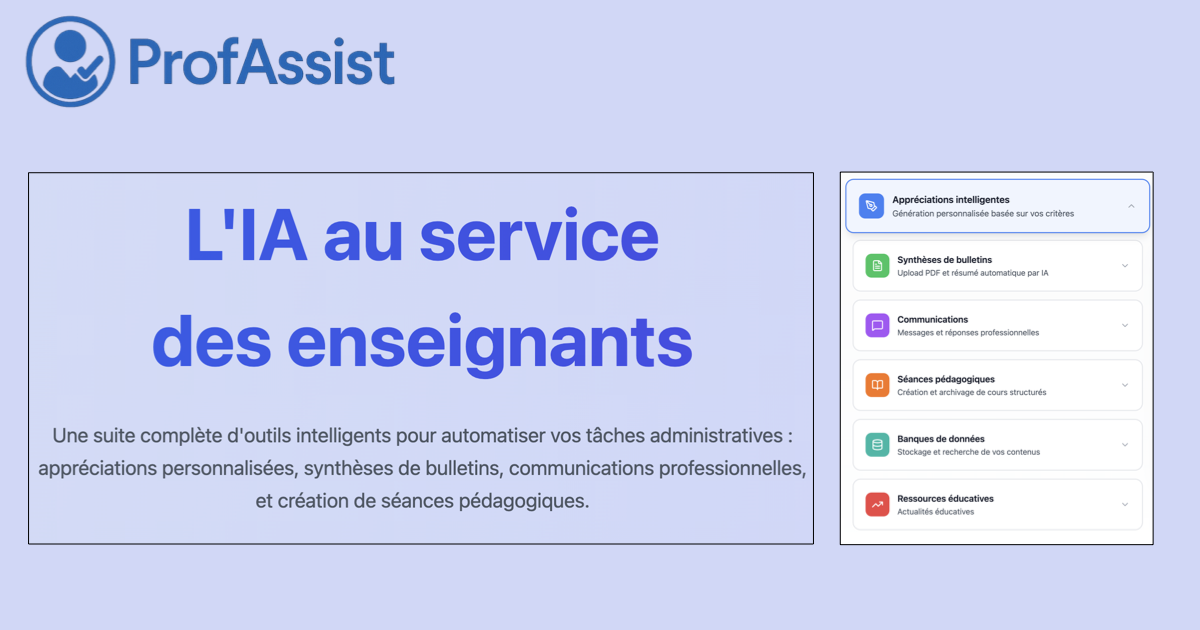
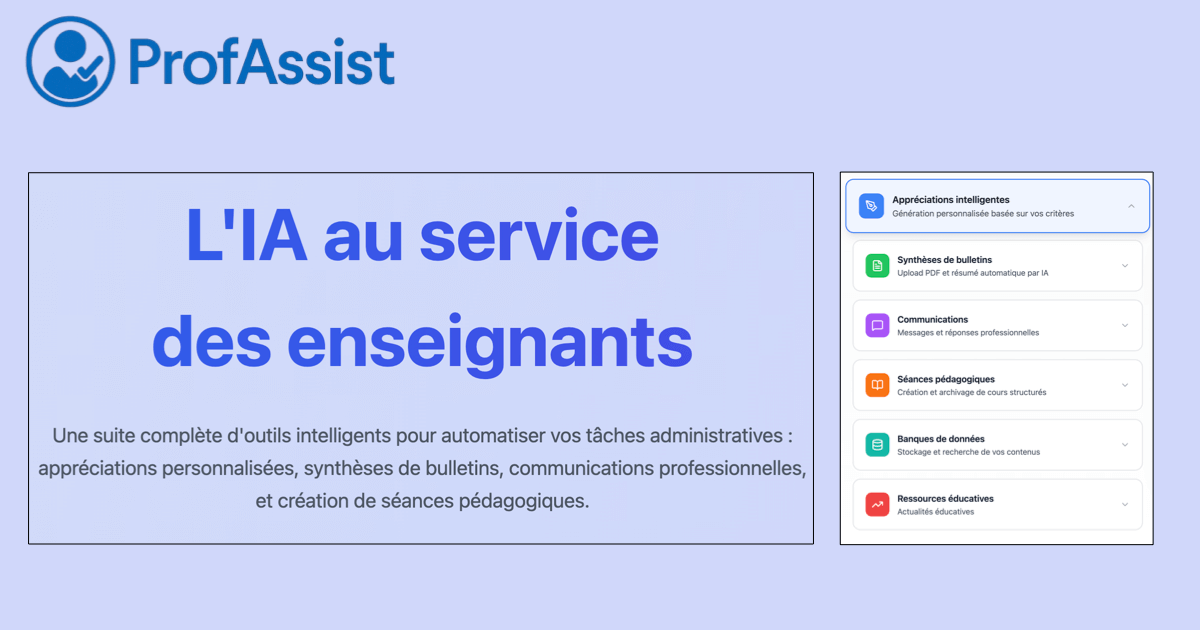
feat: ajout documents légaux + mise à jour LandingPage + optimisation SEO

diff --git a/comgeneratorV2/src/pages/LessonGeneratorPage.tsx b/comgeneratorV2/src/pages/LessonGeneratorPage.tsx
@@ -1,9 +1,13 @@
 // src/pages/LessonGeneratorPage.tsx - VERSION MIGRÉE VERS EDGE FUNCTION
 
 import React from 'react';
-// AJOUTEZ CES DEUX LIGNES EN HAUT DU FICHIER
+// ⭐ NOUVEAUX IMPORTS POUR PDF
+import * as pdfjsLib from 'pdfjs-dist';
+import workerSrc from 'pdfjs-dist/build/pdf.worker.mjs?url';
+import { createWorker } from 'tesseract.js';
+// FIN NOUVEAUX IMPORTS
 import { ResizableBox } from 'react-resizable';
-import 'react-resizable/css/styles.css'; 
+import 'react-resizable/css/styles.css';
 import { useForm } from 'react-hook-form';
 import { zodResolver } from '@hookform/resolvers/zod';
 import { z } from 'zod';
@@ -35,8 +39,13 @@ import {
   AlertCircle,
   CreditCard,
   Lock,
-  ShoppingCart
+  ShoppingCart,
+  Upload,  // ⭐ NOUVEAU
+  FileText  // ⭐ NOUVEAU
 } from 'lucide-react';
+
+// ⭐ CONFIGURATION PDFJS
+pdfjsLib.GlobalWorkerOptions.workerSrc = workerSrc;
 
 const pedagogies = [
   {
@@ -530,6 +539,12 @@ export function LessonGeneratorPage() {
   const [selectedDuration, setSelectedDuration] = React.useState<string>('60');
   const [lastFormData, setLastFormData] = React.useState<LessonFormData | null>(null);
 
+  // ⭐ NOUVEAUX ÉTATS POUR PDF
+  const [pdfDoc, setPdfDoc] = React.useState<pdfjsLib.PDFDocumentProxy | null>(null);
+  const [extractedText, setExtractedText] = React.useState<string>('');
+  const [isExtracting, setIsExtracting] = React.useState(false);
+  const fileInputRef = React.useRef<HTMLInputElement | null>(null);
+
   // États pour vérifier l'accès banque
   const [hasBankAccess, setHasBankAccess] = React.useState<boolean | null>(null);
 
@@ -574,7 +589,66 @@ export function LessonGeneratorPage() {
     }
   });
 
-  // ✅ FONCTION MODIFIÉE - Utilisation de secureApi au lieu d'OpenAI direct
+  // ⭐ NOUVELLE FONCTION : Extraction de texte du PDF
+  const extractTextFromPDF = async (pdf: pdfjsLib.PDFDocumentProxy): Promise<string> => {
+    try {
+      setIsExtracting(true);
+      let fullText = '';
+      
+      // Extraire le texte de toutes les pages
+      for (let pageNum = 1; pageNum <= pdf.numPages; pageNum++) {
+        const page = await pdf.getPage(pageNum);
+        const textContent = await page.getTextContent();
+        const pageText = textContent.items
+          .map((item: any) => item.str)
+          .join(' ');
+        fullText += pageText + '\n\n';
+      }
+      
+      // Nettoyer et limiter le texte
+      const cleanedText = fullText
+        .replace(/\s+/g, ' ')
+        .trim()
+        .substring(0, 4000); // Limiter à 4000 caractères
+      
+      setExtractedText(cleanedText);
+      return cleanedText;
+    } catch (error) {
+      console.error('Erreur lors de l\'extraction du texte:', error);
+      return '';
+    } finally {
+      setIsExtracting(false);
+    }
+  };
+
+  // ⭐ NOUVELLE FONCTION : Gestion de l'upload PDF
+  const handlePDFUpload = async (e: React.ChangeEvent<HTMLInputElement>) => {
+    const file = e.target.files?.[0];
+    if (!file) return;
+
+    try {
+      const arrayBuffer = await file.arrayBuffer();
+      const pdf = await pdfjsLib.getDocument({ data: arrayBuffer }).promise;
+      setPdfDoc(pdf);
+      
+      // Extraction automatique du texte
+      await extractTextFromPDF(pdf);
+    } catch (error) {
+      console.error('Erreur lors du chargement du PDF:', error);
+      alert('Erreur lors du chargement du PDF. Veuillez réessayer.');
+    }
+  };
+
+  // ⭐ NOUVELLE FONCTION : Réinitialiser le PDF
+  const resetPDF = () => {
+    setPdfDoc(null);
+    setExtractedText('');
+    if (fileInputRef.current) {
+      fileInputRef.current.value = '';
+    }
+  };
+
+  // ✅ FONCTION MODIFIÉE - Utilisation de secureApi avec documentContext
   const onSubmit = async (data: LessonFormData) => {
     if (!user) return;
 
@@ -588,13 +662,14 @@ export function LessonGeneratorPage() {
     setGeneratedContent('');
 
     try {
-      // ✅ REMPLACEMENT - Appel à secureApi au lieu d'OpenAI direct
+      // ✅ REMPLACEMENT - Appel à secureApi avec documentContext optionnel
       const result = await secureApi.generateLesson({
         subject: data.subject,
         topic: data.topic,
         level: data.level,
         pedagogy_type: data.pedagogy_type,
-        duration: data.duration
+        duration: data.duration,
+        documentContext: extractedText || undefined  // ⭐ AJOUT DU CONTEXTE PDF
       });
 
       const content = result.content;
@@ -805,6 +880,22 @@ export function LessonGeneratorPage() {
               {tokenCount === 0 ? 'Rechargez vos crédits pour générer des séances pédagogiques' : 'Configurez les détails de votre séance pédagogique'}
             </p>
           </div>
+          <div className="bg-gradient-to-r from-amber-50 to-orange-50 dark:from-amber-900/20 dark:to-orange-900/20 p-4 rounded-xl border border-amber-200 dark:border-amber-800 space-y-2 mb-8">
+  <div className="flex items-start">
+      <AlertCircle className="w-5 h-5 text-amber-600 dark:text-amber-400 mr-3 mt-0.5 flex-shrink-0" />
+      <div>
+          <h4 className="font-semibold text-amber-800 dark:text-amber-200">Conseils pour une génération optimale :</h4>
+          <ul className="list-disc pl-5 mt-1 text-sm text-amber-700 dark:text-amber-300 space-y-1">
+              <li>
+                  <strong>Précisez votre thème :</strong> Soyez spécifique dans le champ "Thème". Mentionnez les objectifs, les compétences visées et les attendus pour un résultat plus pertinent.
+              </li>
+              <li>
+                  <strong>Document de référence :</strong> L'ajout d'un PDF améliore grandement la qualité de la séance. Attention, son analyse peut consommer <strong>jusqu'à 4000 tokens supplémentaires</strong>.
+              </li>
+          </ul>
+      </div>
+  </div>
+</div>
 
           <form onSubmit={handleSubmit(onSubmit)} className="space-y-8">
             <div className="grid md:grid-cols-2 gap-6">
@@ -899,6 +990,78 @@ export function LessonGeneratorPage() {
                 </div>
               )}
             </div>
+
+            {/* ⭐ NOUVELLE SECTION : Document de référence (optionnel) */}
+            <div className="space-y-4 border-t-2 border-gray-200 dark:border-gray-600 pt-6">
+              <div className="flex items-center justify-between">
+                <label className="block text-sm font-semibold text-gray-700 dark:text-gray-200">
+                  <FileText className="w-4 h-4 inline mr-2" />
+                  📎 Document de référence (optionnel)
+                </label>
+                {pdfDoc && (
+                  <button
+                    onClick={resetPDF}
+                    className="text-sm text-red-600 dark:text-red-400 hover:underline"
+                  >
+                    Supprimer le document
+                  </button>
+                )}
+              </div>
+
+              {!pdfDoc ? (
+                <div className="bg-gradient-to-r from-gray-50 to-blue-50 dark:from-gray-700 dark:to-blue-900/20 rounded-xl p-6 border-2 border-dashed border-gray-300 dark:border-gray-600">
+                  <div className="text-center">
+                    <Upload className="w-12 h-12 mx-auto mb-3 text-gray-400" />
+                    <p className="text-sm text-gray-600 dark:text-gray-400 mb-4">
+                      Uploadez un PDF de référence (bulletin officiel, programme, manuel, exemples d'exercices...)
+                      pour optimiser la génération de séance
+                    </p>
+                    <input
+                      ref={fileInputRef}
+                      type="file"
+                      accept="application/pdf"
+                      onChange={handlePDFUpload}
+                      disabled={tokenCount === 0}
+                      className="hidden"
+                      id="pdf-upload"
+                    />
+                    <label
+                      htmlFor="pdf-upload"
+                      className={`inline-flex items-center px-4 py-2 bg-blue-600 text-white font-medium rounded-xl hover:bg-blue-700 transition-all duration-200 ${
+                        tokenCount === 0 ? 'opacity-50 cursor-not-allowed' : 'cursor-pointer'
+                      }`}
+                    >
+                      <Upload className="w-4 h-4 mr-2" />
+                      Sélectionner un PDF
+                    </label>
+                  </div>
+                </div>
+              ) : (
+                <div className="bg-gradient-to-r from-green-50 to-emerald-50 dark:from-green-900/20 dark:to-emerald-900/20 rounded-xl p-6 border-2 border-green-200 dark:border-green-800">
+                  <div className="flex items-start space-x-4">
+                    <div className="w-12 h-12 bg-green-500 rounded-xl flex items-center justify-center flex-shrink-0">
+                      <FileText className="w-6 h-6 text-white" />
+                    </div>
+                    <div className="flex-1">
+                      <h4 className="font-semibold text-green-800 dark:text-green-200 mb-2">
+                        Document chargé ({pdfDoc.numPages} page{pdfDoc.numPages > 1 ? 's' : ''})
+                      </h4>
+                      {isExtracting ? (
+                        <div className="flex items-center text-sm text-green-700 dark:text-green-300">
+                          <div className="animate-spin rounded-full h-4 w-4 border-2 border-green-600 border-t-transparent mr-2"></div>
+                          Extraction du texte en cours...
+                        </div>
+                      ) : (
+                        <p className="text-sm text-green-700 dark:text-green-300">
+                          ✓ Texte extrait ({extractedText.length} caractères) - Ce contenu sera utilisé pour enrichir la génération
+                        </p>
+                      )}
+                    </div>
+                  </div>
+                </div>
+              )}
+            </div>
+            {/* FIN NOUVELLE SECTION */}
 
             {error && (
               <div className="bg-gradient-to-r from-red-50 to-pink-50 dark:from-red-900/20 dark:to-pink-900/20 border border-red-200 dark:border-red-800 rounded-xl p-4">

diff --git a/comgeneratorV2/supabase/functions/lessons/index.ts b/comgeneratorV2/supabase/functions/lessons/index.ts
@@ -2,12 +2,14 @@
 
 // @ts-ignore - Deno global disponible en runtime
 
+// ⭐ MODIFICATION : Ajout de documentContext optionnel
 interface LessonRequest {
   subject: string;
   topic: string;
   level: string;
   pedagogy_type: string;
   duration: string;
+  documentContext?: string;  // ⭐ NOUVEAU - Texte extrait du PDF
 }
 
 const lessonsHandler = async (req: Request): Promise<Response> => {
@@ -90,7 +92,7 @@ const lessonsHandler = async (req: Request): Promise<Response> => {
 
     const pedagogyDescription = pedagogies.find(p => p.value === data.pedagogy_type)?.description ?? data.pedagogy_type;
 
-    // Reproduction exacte de votre prompt complet
+    // ⭐ MODIFICATION : Prompt enrichi avec contexte documentaire
     const prompt = `Tu es un expert en ingénierie pédagogique et en didactique, spécialisé dans la conception de séances d'enseignement primaire et secondaire.
 
 **CONTEXTE DE LA SÉANCE :**
@@ -99,6 +101,27 @@ const lessonsHandler = async (req: Request): Promise<Response> => {
 - Niveau : ${data.level}
 - Durée : ${data.duration} minutes
 - Approche pédagogique : ${pedagogyDescription}
+
+${data.documentContext ? `
+**📎 DOCUMENT DE RÉFÉRENCE FOURNI PAR L'ENSEIGNANT :**
+
+L'enseignant a fourni un document de contexte (bulletin officiel, programme, manuel, exercices...) pour guider la conception de cette séance.
+Voici le contenu extrait de ce document :
+
+---
+${data.documentContext}
+---
+
+**Consigne importante :** Utilise les informations de ce document pour :
+- Aligner la séance avec les programmes officiels mentionnés
+- Intégrer les compétences et objectifs spécifiques indiqués
+- Respecter le niveau de difficulté et les prérequis décrits
+- T'inspirer des exemples d'exercices ou d'activités fournis
+- Adapter le vocabulaire et les concepts au cadre pédagogique précisé
+
+Intègre ces éléments de manière naturelle dans la séance tout en respectant la structure demandée ci-dessous.
+
+` : ''}
 
 ${data.subject.toLowerCase().includes('eps') || data.subject.toLowerCase().includes('sport') ? 
 `**🏃 SPÉCIFICITÉS EPS - INSTRUCTIONS PRIORITAIRES :**

diff --git a/comgeneratorV2/supabase/functions/generate/index.ts b/comgeneratorV2/supabase/functions/generate/index.ts
@@ -82,7 +82,7 @@ const generateHandler = async (req: Request): Promise<Response> => {
     const prompt = `Tu es un enseignant expérimenté, expert en évaluation pédagogique et en rédaction d'appréciations de bulletins scolaires. Tu maîtrises parfaitement les enjeux de l'évaluation formative et les codes de communication avec les élèves et leurs familles.
 
 **⚠ CONTRAINTE CRITIQUE #1 - MODE D'ADRESSE (PRIORITÉ ABSOLUE) :**
-${getAddressModeInstructions(params.addressMode)}
+${getAddressModeInstructions(params.addressMode, params.studentName)}
 
 **⚠ CONTRAINTES CRITIQUES DE LONGUEUR (IMPÉRATIF ABSOLU) :**
 - Version détaillée : EXACTEMENT entre ${params.minLength} et ${params.maxLength} caractères (espaces compris)
@@ -408,7 +408,7 @@ function getToneInstructionsForAppreciation(tone: 'bienveillant' | 'normal' | 's
   }
 }
 
-function getAddressModeInstructions(addressMode: 'tutoiement' | 'vouvoiement' | 'impersonnel'): string {
+function getAddressModeInstructions(addressMode: 'tutoiement' | 'vouvoiement' | 'impersonnel', studentName: string): string {
   switch (addressMode) {
     case "tutoiement":
       return `Tu DOIS ABSOLUMENT utiliser le TUTOIEMENT dans TOUTE l'appréciation :
@@ -427,7 +427,7 @@ function getAddressModeInstructions(addressMode: 'tutoiement' | 'vouvoiement' | 
     case "impersonnel":
       return `Tu DOIS ABSOLUMENT utiliser une FORMULATION IMPERSONNELLE dans TOUTE l'appréciation :
 - Utilise UNIQUEMENT : "l'élève", "il", "elle", "son", "sa", "ses", le prénom de l'élève
-- Exemples corrects : "L'élève montre", "Son travail", "Elle doit", "Ses efforts", "${params.studentName} démontre"
+- Exemples corrects : "L'élève montre", "Son travail", "Elle doit", "Ses efforts", "${studentName} démontre"
 - INTERDIT : "tu", "te", "ton", "ta", "tes", "vous", "votre", "vos"
 - Cette règle s'applique à CHAQUE phrase sans exception.`;
 

diff --git a/comgeneratorV2/src/pages/LandingPage.tsx b/comgeneratorV2/src/pages/LandingPage.tsx
@@ -401,11 +401,15 @@ export function LandingPage() {
           
           <div className="rounded-2xl overflow-hidden shadow-2xl bg-gradient-to-br from-gray-100 to-gray-200 dark:from-gray-700 dark:to-gray-800 p-2">
             <div className="bg-white dark:bg-gray-900 rounded-xl overflow-hidden">
-              <img 
-                src="https://res.cloudinary.com/dhva6v5n8/image/upload/landingProfAssist_ukidup.png"
-                alt="Interface ProfAssist - Dashboard complet"
-                className="w-full h-auto"
-              />
+              <img
+  src="https://res.cloudinary.com/dhva6v5n8/image/upload/f_auto,q_auto,dpr_auto,w_1200/landing_mhnrfm.webp"
+  alt="Interface ProfAssist - Dashboard complet"
+  className="w-full h-auto"
+  loading="lazy"
+  decoding="async"
+/>
+
+
             </div>
           </div>
         </div>

diff --git a/comgeneratorV2/src/lib/secureApi.ts b/comgeneratorV2/src/lib/secureApi.ts
@@ -32,12 +32,14 @@ export interface ReplyParams {
   signature?: string | null;
 }
 
+// ⭐ MODIFICATION : Ajout de documentContext optionnel
 export interface LessonParams {
   subject: string;
   topic: string;
   level: string;
-  pedagogy_type: string;  // ← Correspond à l'Edge Function
-  duration: string;       // ← En string, pas number
+  pedagogy_type: string;
+  duration: string;
+  documentContext?: string;  // ⭐ NOUVEAU - Texte extrait du PDF de référence
 }
 
 // ✅ INTERFACE MISE À JOUR pour SynthesisParams

diff --git a/comgeneratorV2/src/pages/legal/PolitiqueConfidentialitePage.tsx b/comgeneratorV2/src/pages/legal/PolitiqueConfidentialitePage.tsx
@@ -206,7 +206,7 @@ export function PolitiqueConfidentialitePage() {
                 Hébergement sécurisé de la base de données (serveurs en Europe).
               </p>
               <p className="text-gray-600 text-sm">
-                <strong>Conformité :</strong> Certifié RGPD et SOC 2.
+                <strong>Conformité :</strong> Certifié RGPD.
               </p>
             </div>
           </div>
